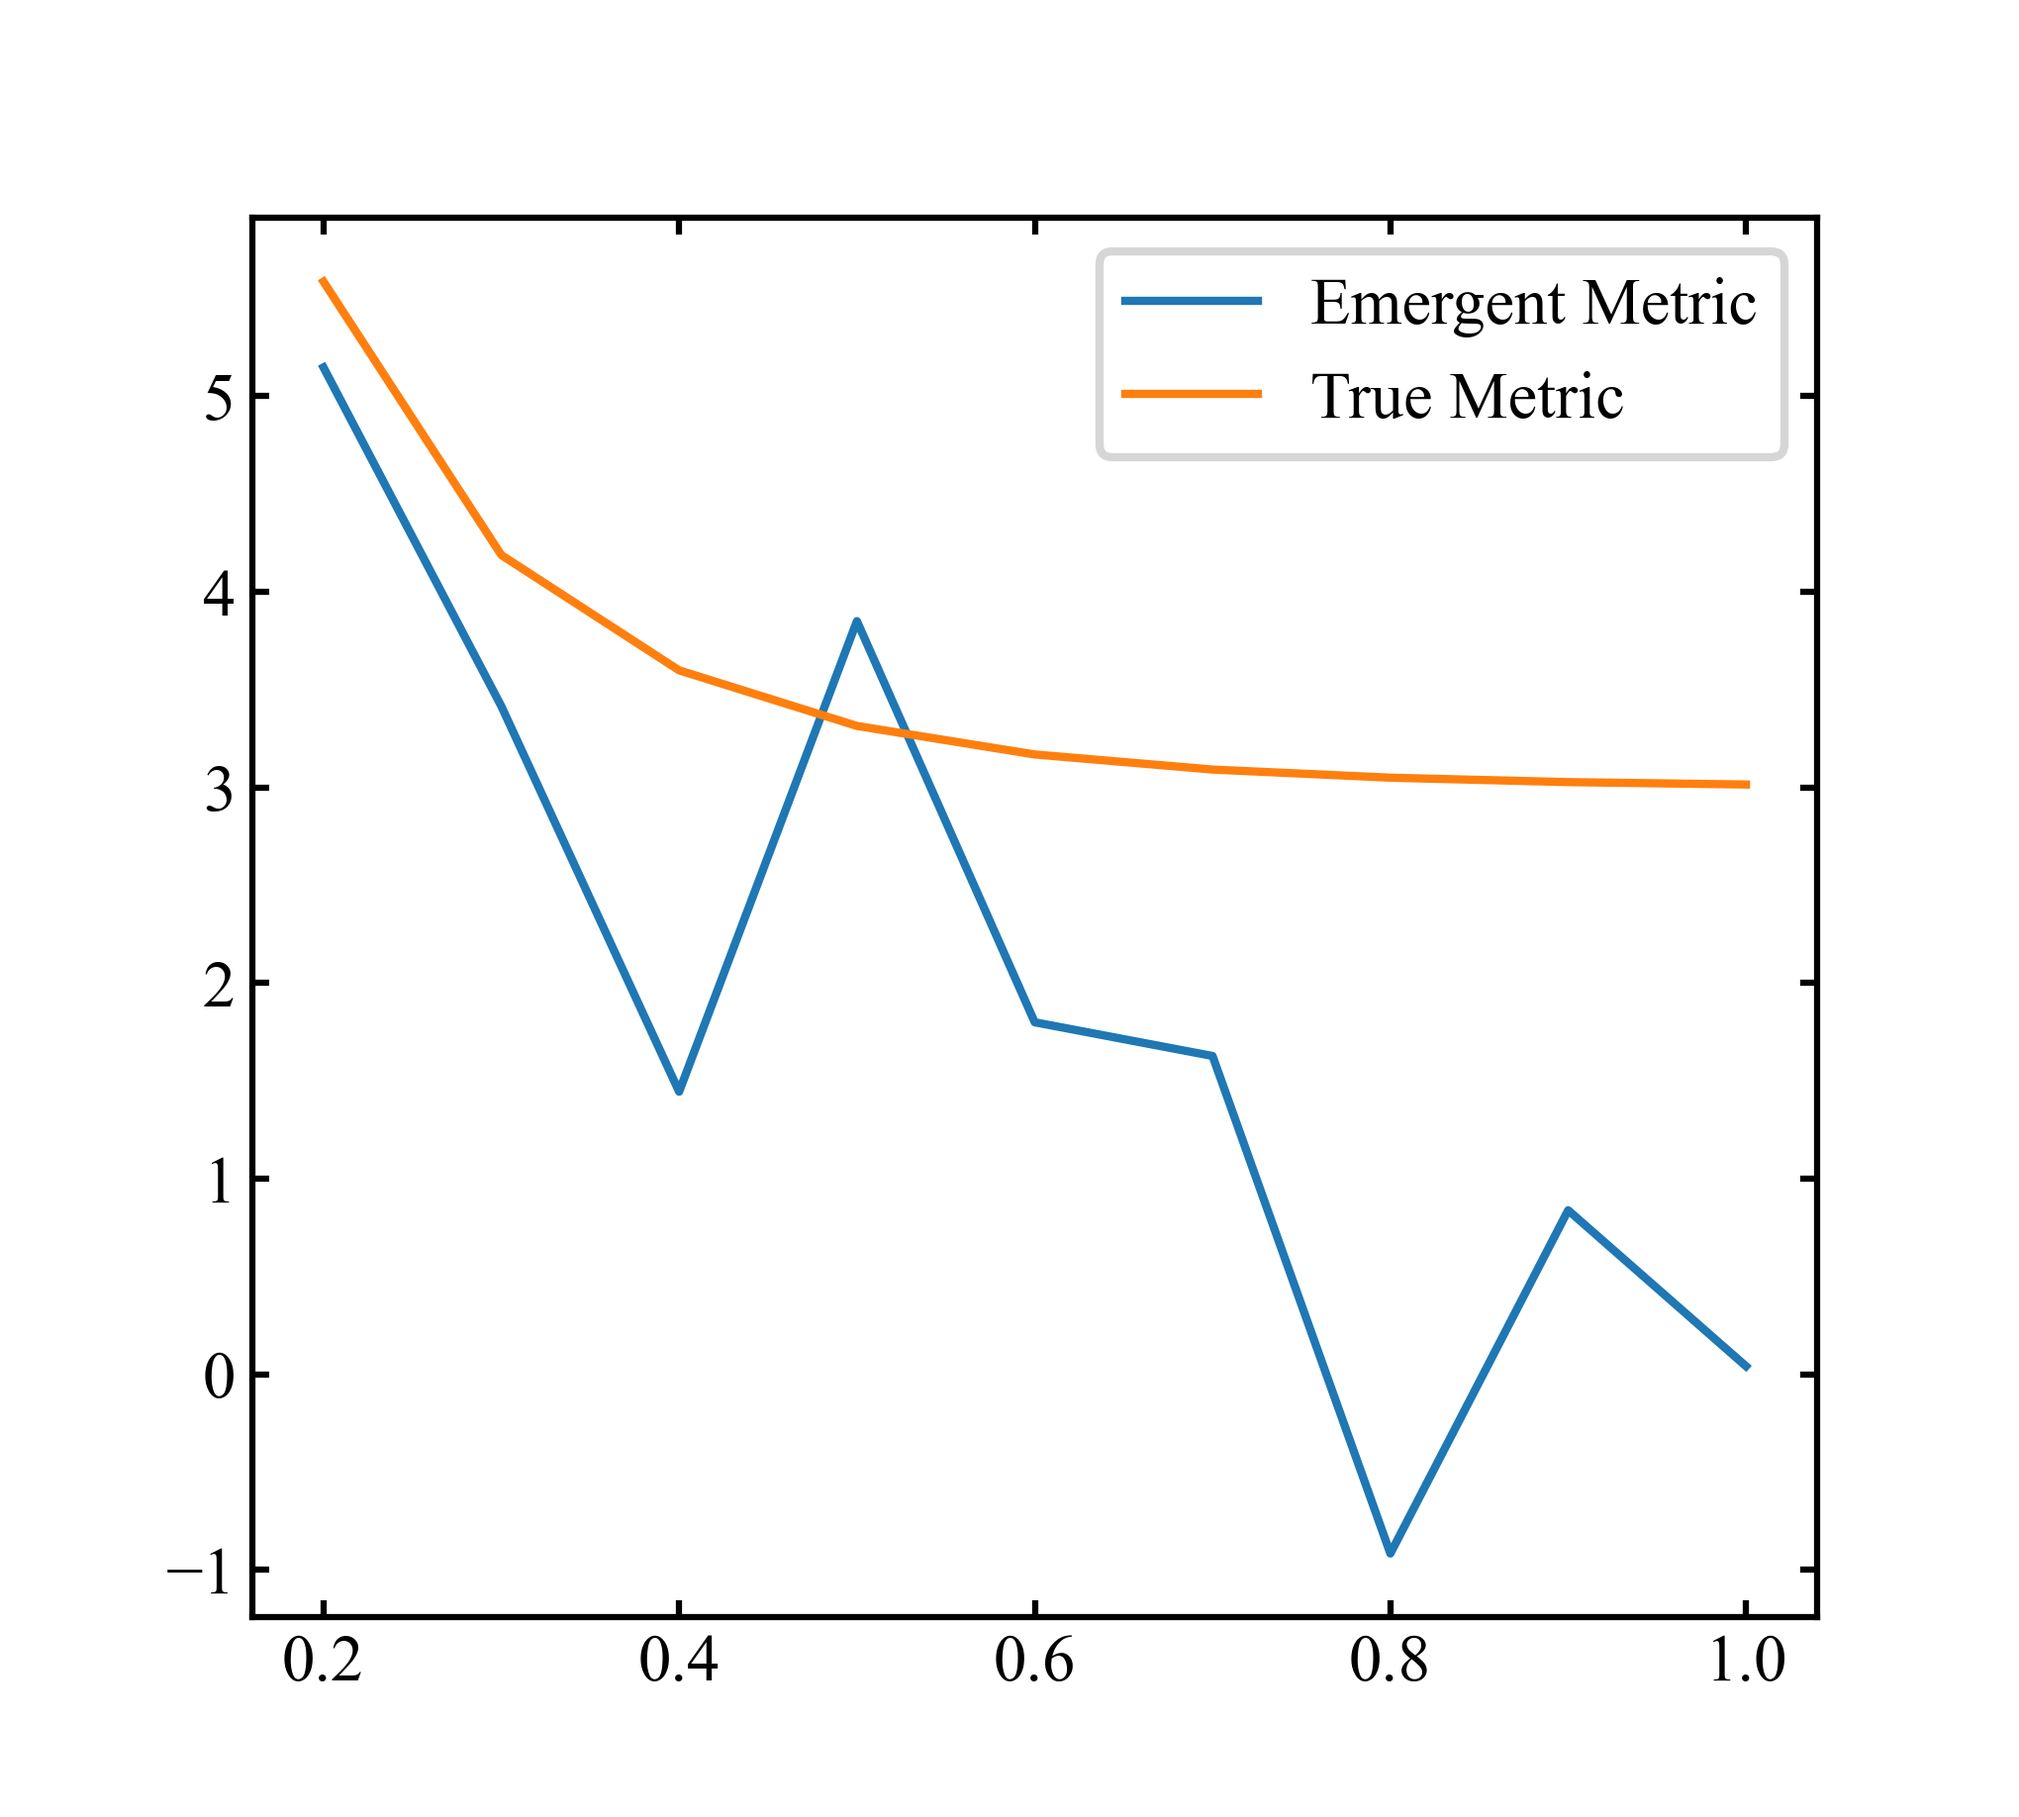
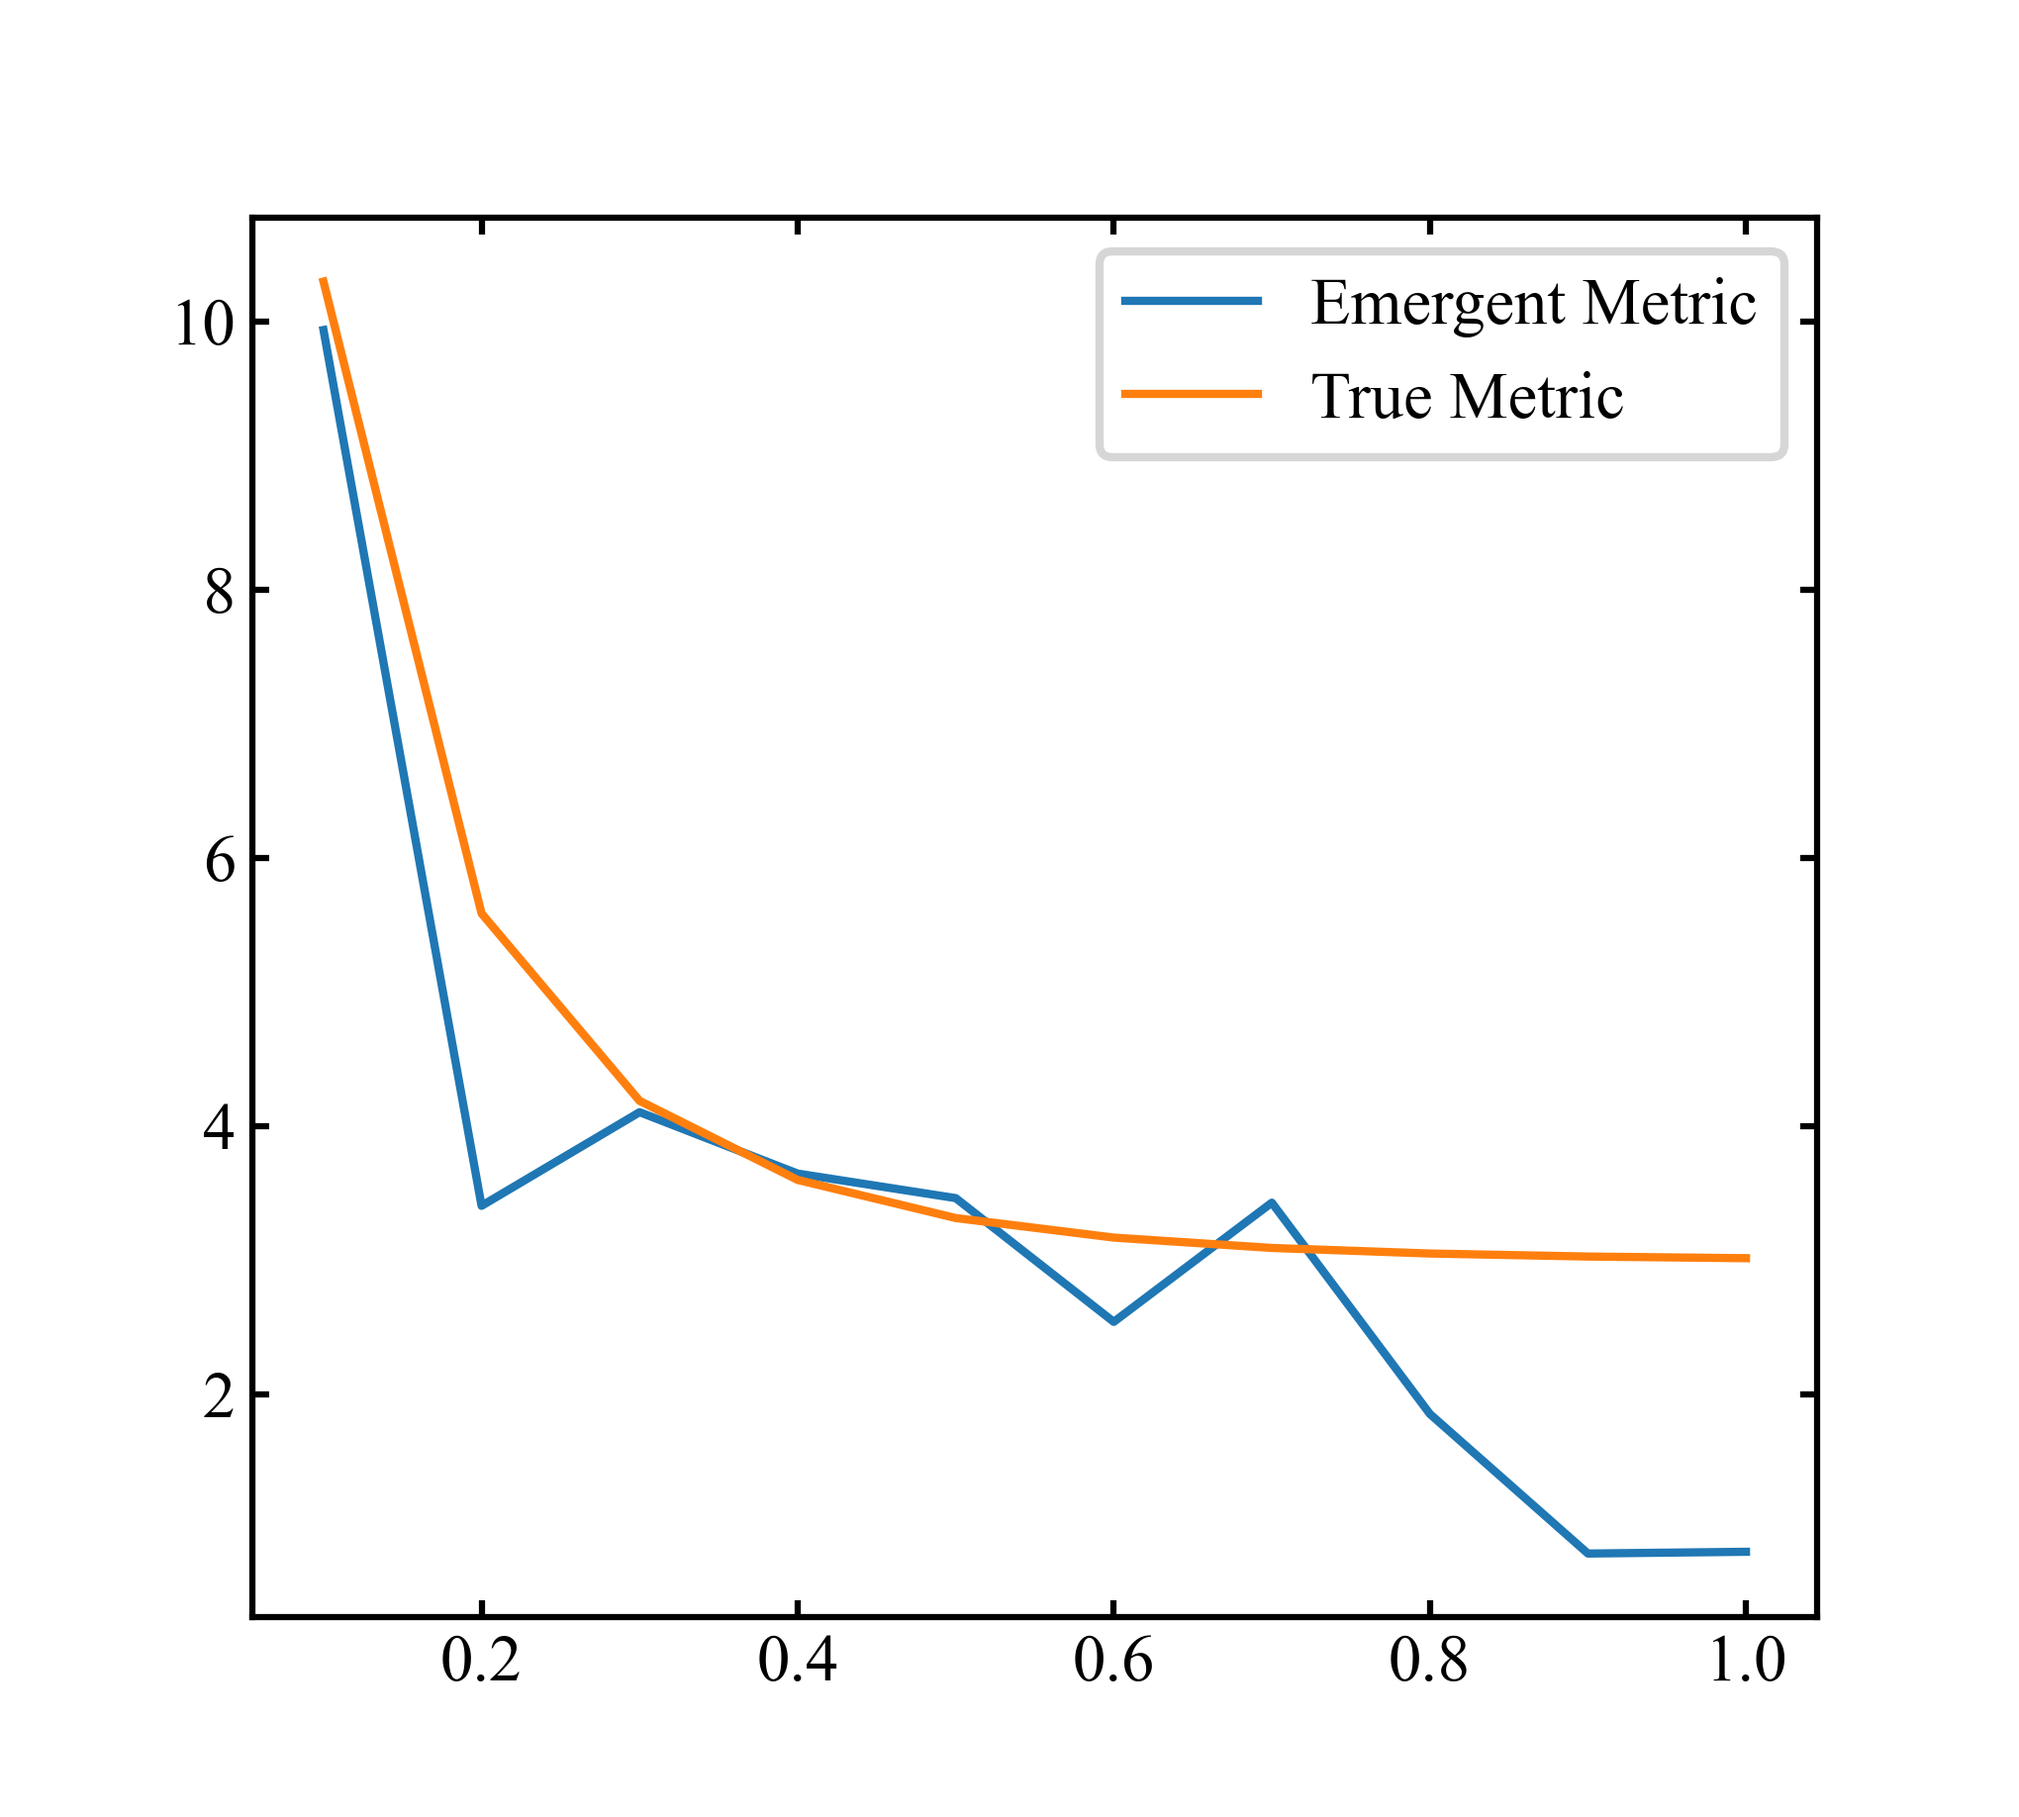
New neural network with 1 input/output under construction

diff --git a/nn.py b/nn.py
@@ -24,7 +24,7 @@ class outLayer(nn.Module):
         super(outLayer, self).__init__()
     
     def forward(self, x):
-        F = 20*x[:,1] #+ x[:,0] - torch.pow(x[:,0], 3)
+        F = 20*x[:,1] + x[:,0] - torch.pow(x[:,0], 3)
         return (torch.tanh(100*(F-0.1))-torch.tanh(100*(F+0.1))+2)/2
         #return torch.abs(F)
 
@@ -44,7 +44,7 @@ class Net(nn.Module):
     def __init__(self, N = 10, generate = False):
         super(Net, self).__init__()
         self.layers = nn.ModuleList()
-        for k in range(N-1):
+        for k in range(N):
             tempLayer = nn.Linear(2, 2, bias = False)
             eta = 1 - 0.1*k
             #tempLayer.weight = nn.Parameter(torch.Tensor([[1, -0.1], [0.1, 1+0.1*3/np.tanh(3*eta)]]))
@@ -68,8 +68,8 @@ class Net(nn.Module):
 
     def extractMetric(self):
         # Number of layers = 10
-        metric = np.zeros((9,2))
-        for k in range(9):
+        metric = np.zeros((10,2))
+        for k in range(10):
             metric[k,0] = 1 - 0.1*k
             metric[k,1] = (self.layers[k].weight[1,1].item() - 1) * 10
         return metric

diff --git a/nn2.py b/nn2.py
@@ -1,0 +1,27 @@
+import torch
+import torch.nn as nn
+import numpy as np
+
+
+class Net(nn.Module):
+    def __init__(self, N_layers = 10, eta_i = 1, eta_f = 0.1, m2 = -1, generate = False):
+        super(Net, self).__init__()
+
+        self.layers = nn.ModuleList()
+        for k in range(N):
+            tempLayer = nn.Linear(1, 1, bias = False)
+            eta = 1 - 0.1*k
+            if generate:
+                tempLayer.weight = nn.Parameter(torch.Tensor([1 + 0.1*3/np.tanh(3*eta)]))
+            else:
+                tempLayer.weight = nn.Parameter(torch.Tensor([1 + 0.1*np.rnadom.normal(loc = 1/eta, scale = 1)]))
+            self.layers.append(tempLayer)
+        if generate:
+            self.out = genLayer()
+        else:
+            self.out = outLayer()
+
+    def forward(self):
+        phi = x[0, 0]
+        pi = x[0, 1]
+        for layer in self.layers:

diff --git a/main.py b/main.py
@@ -24,7 +24,7 @@ if load:
 else:
     # Generate dataset
     dataset = data_generator.GeneratedDataset()
-dataloader = DataLoader(dataset, batch_size = 10, shuffle = True)
+dataloader = DataLoader(dataset, batch_size = 500, shuffle = True)
 
 # Set neural network
 model = nn.Net(generate = False)
@@ -60,7 +60,7 @@ for curEpoch in range(epochs):
             print(y)
             test = False
         regularizer = torch.zeros(1)
-        for i in range(8):
+        for i in range(9):
             regularizer += ((1-0.1*i)**4)*((model.layers[i+1].weight[1,1]-model.layers[i].weight[1,1])**2)
         loss = criterion(y_pred.view_as(y), y) + c_reg * regularizer
         loss.backward()

diff --git a/test.py b/test.py
@@ -10,7 +10,7 @@ dataloader = DataLoader(dataset, batch_size = 1, shuffle = False)
 generator = nn.Net(generate = True)
 network = nn.Net(generate = False)
 
-print('Output test for 10 data points:')
+print('Output test for 2000 data points:')
 i = 0
 L1 = 0
 for x, y in dataloader:
@@ -18,7 +18,9 @@ for x, y in dataloader:
     net_y = network(x)
     #print('Data {}: Generator = {}, Network = {}'.format(i+1,gen_y.item(),net_y.item()))
     i += 1
+    if torch.abs(net_y - y) > 10e-3:
+        print('Data {}: Label = {}, Pred = {}'.format(i, y.item(), net_y.item()))
     L1 += torch.abs(net_y - y)
-    if i > 9:
+    if i > 1999:
         break
-print(L1)
+print(L1.item())
